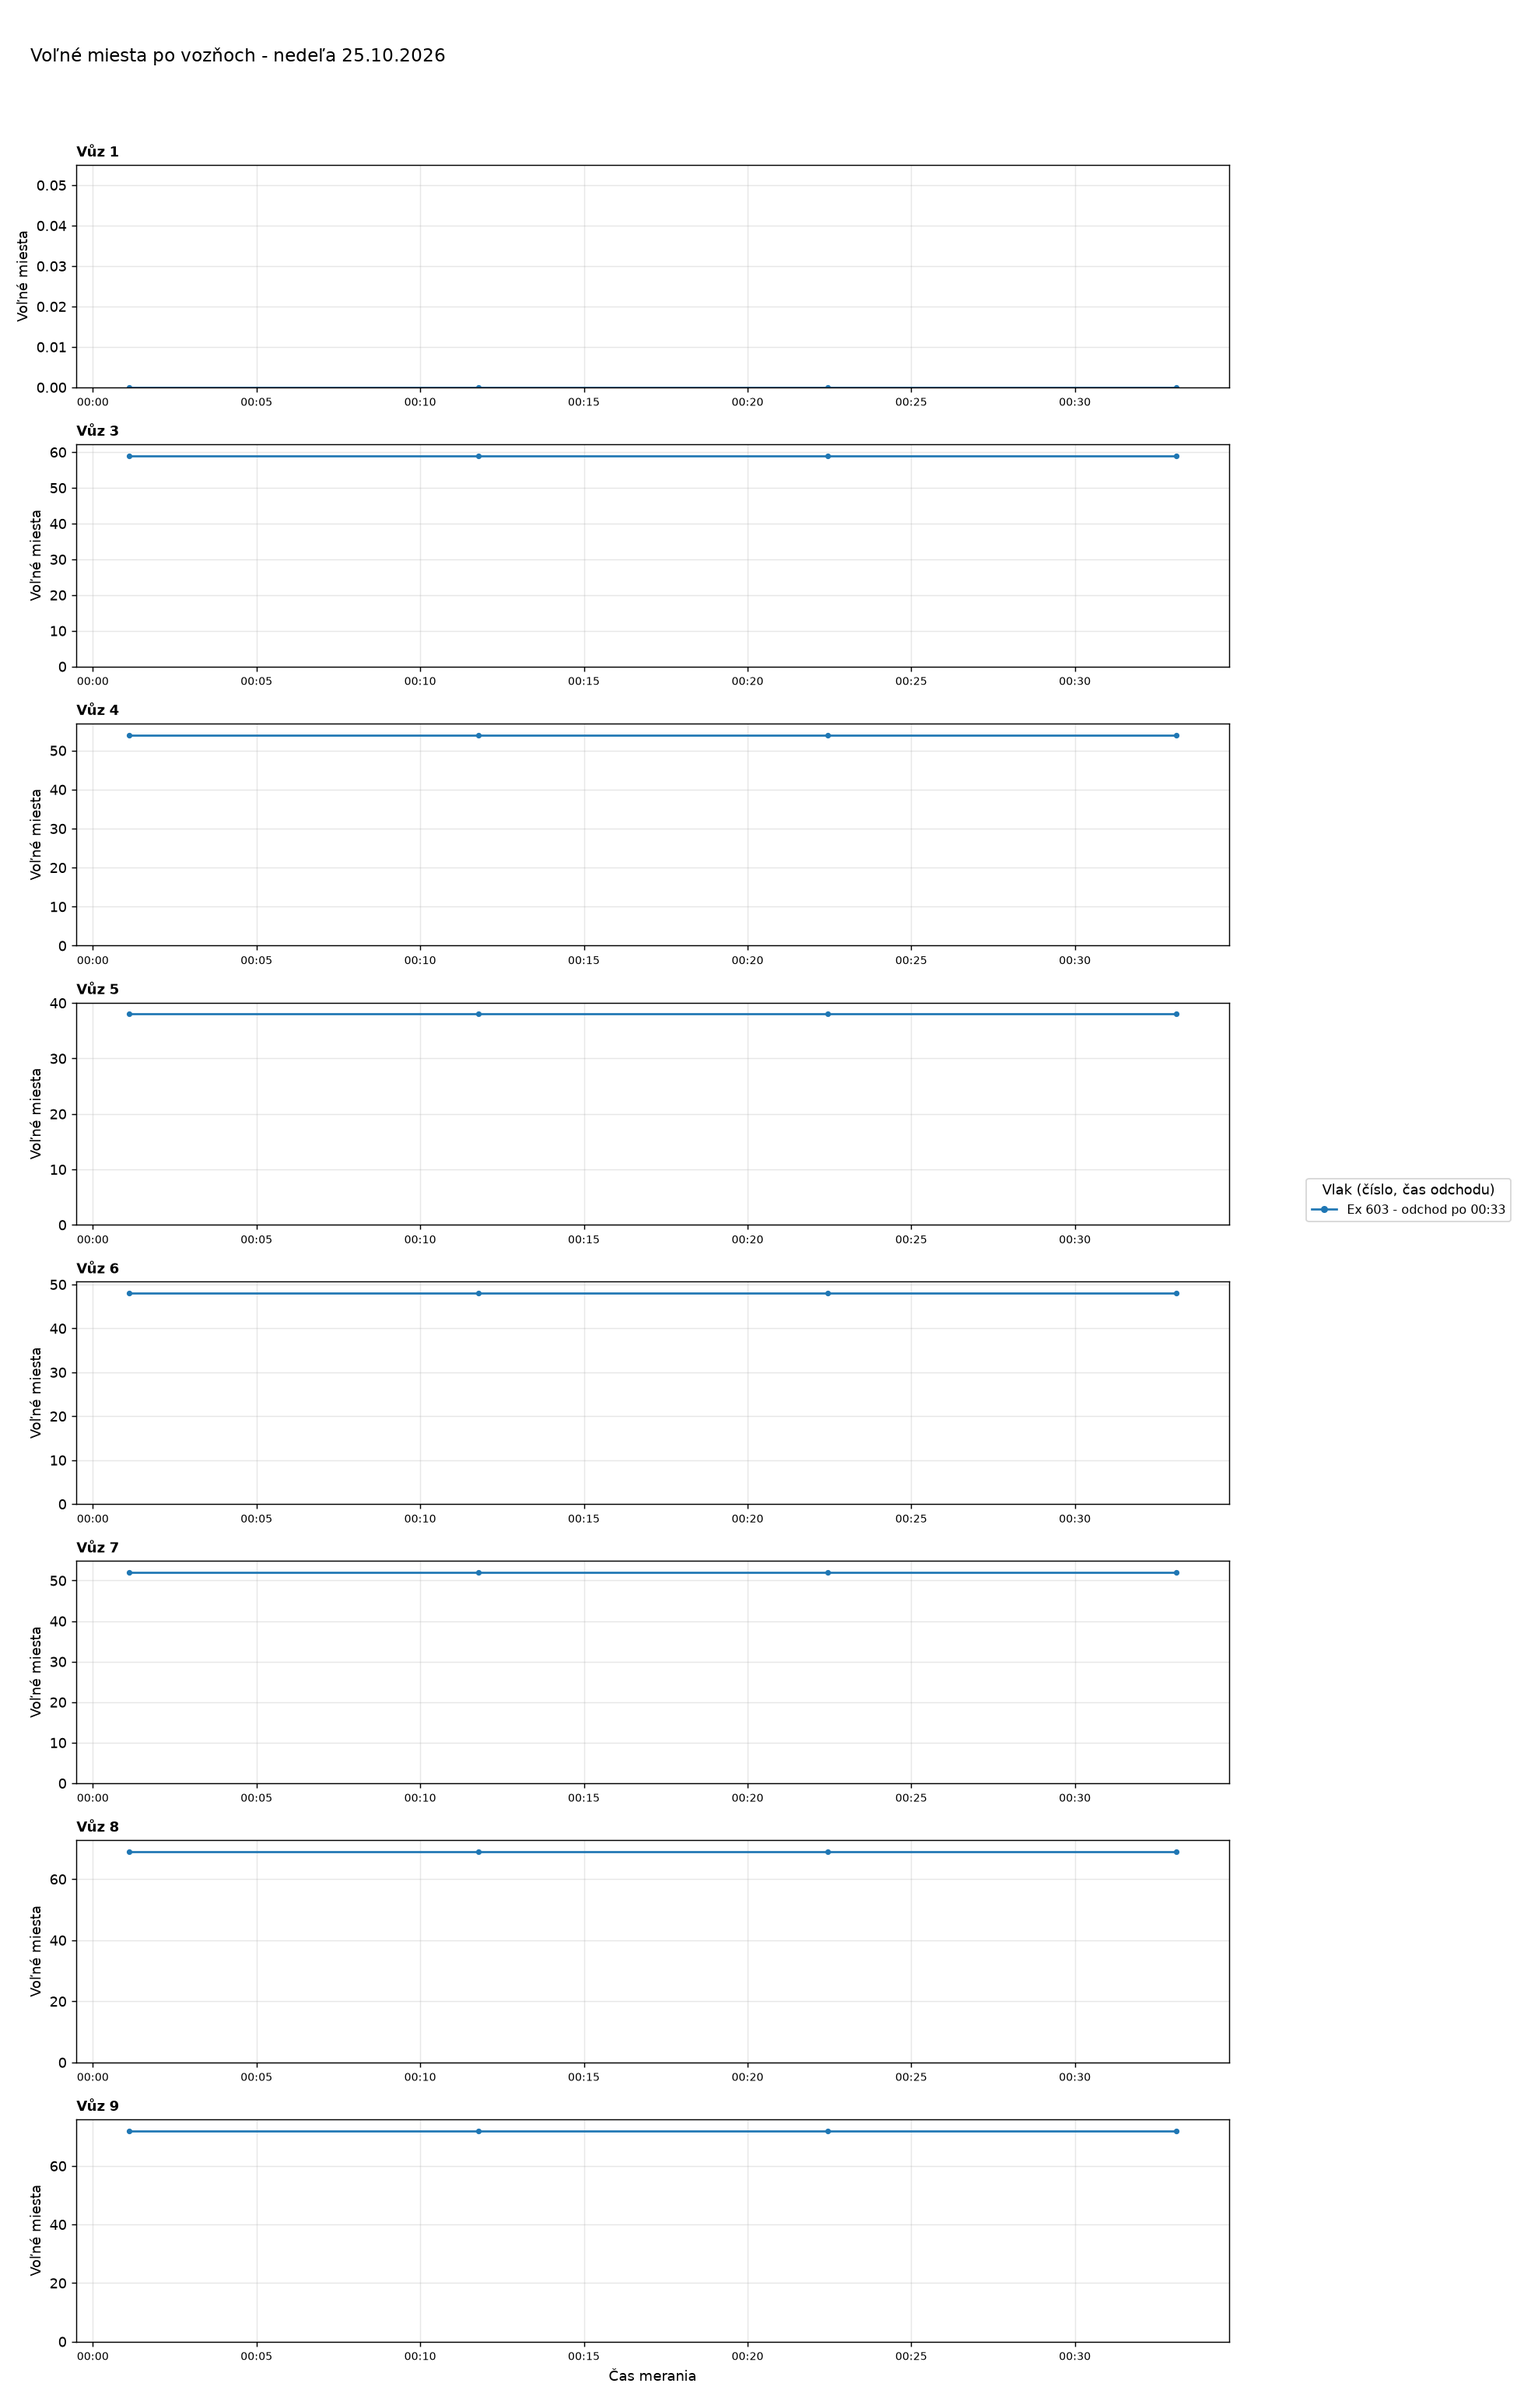
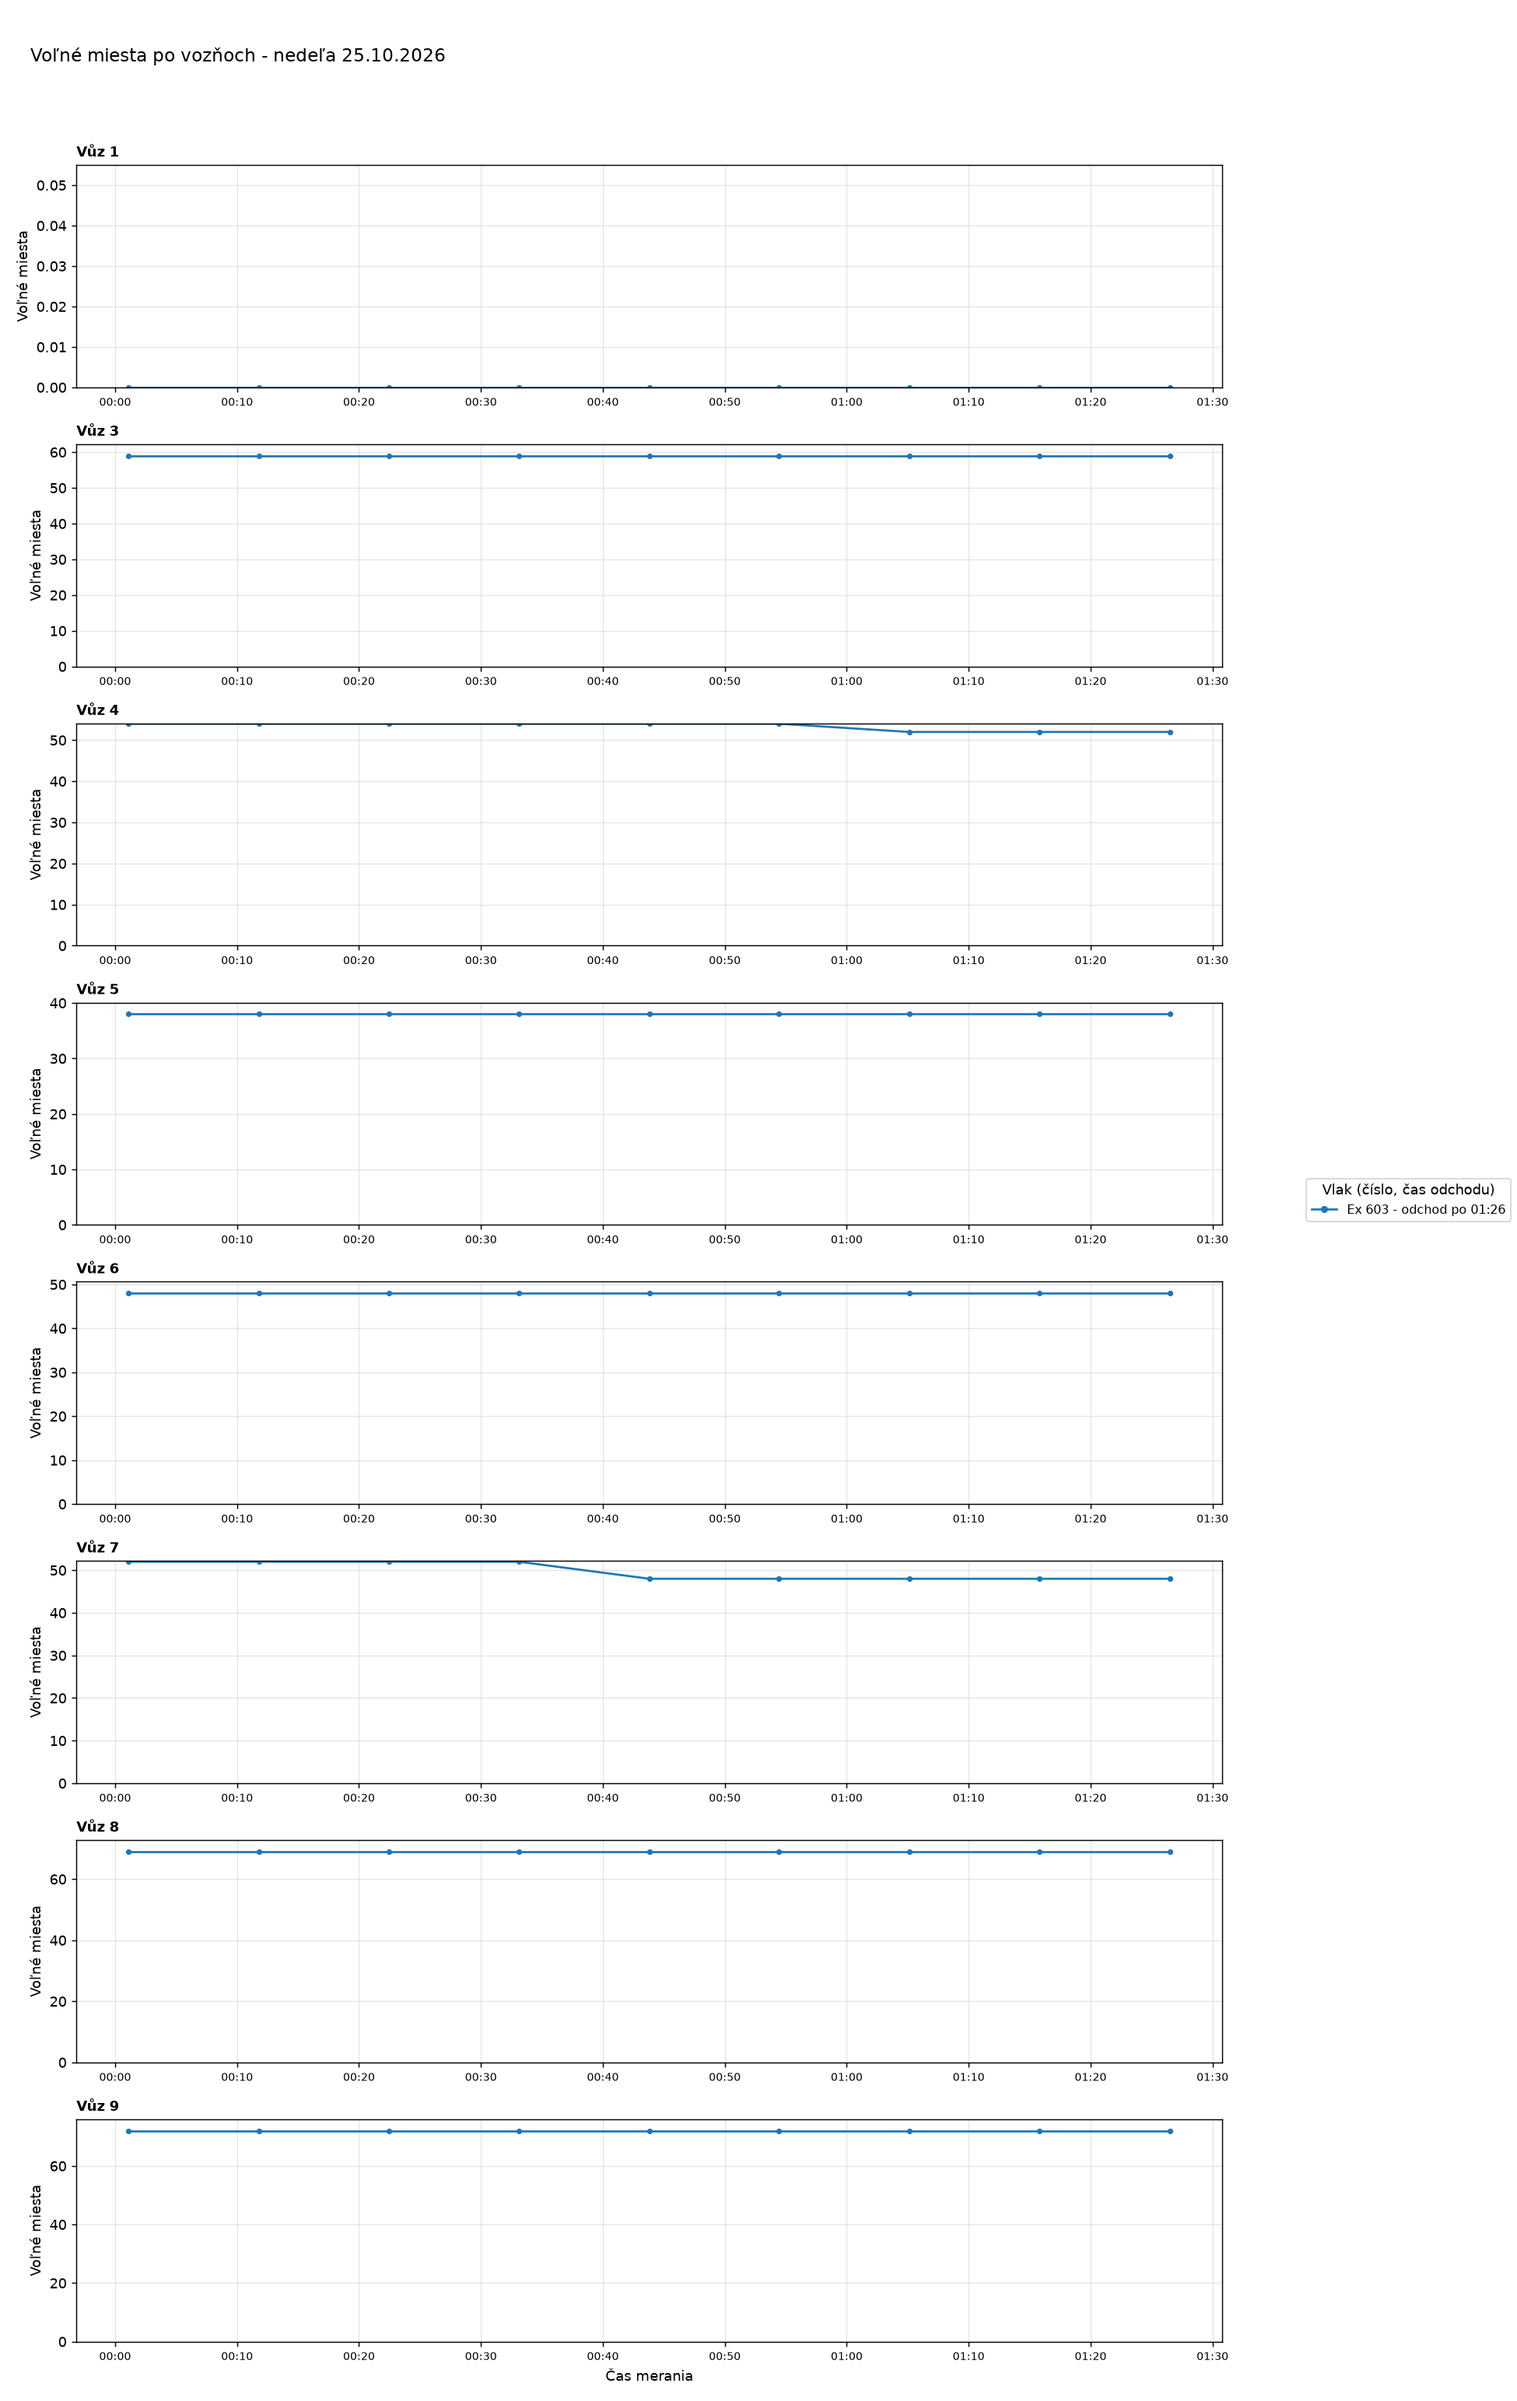
Aktualizácia grafov 2026-10-25 01:34

diff --git a/index.html b/index.html
@@ -35,7 +35,7 @@ h2.oddiel{margin:36px 0 0;font-size:1.4rem}
 <body>
 <main>
 <h1>Voľné miesta vo vlakoch</h1>
-<p class="muted">Posledné meranie: 25.10.2026 00:33 ·
+<p class="muted">Posledné meranie: 25.10.2026 01:26 ·
 <a href="data/obsadenost_data.csv">stiahnuť dáta (CSV)</a></p>
 <nav class="nav"><a href="#suhrn">Súhrn</a><a href="#statistiky">Štatistiky</a><a href="#historia">História grafov</a></nav>
 
@@ -44,7 +44,7 @@ h2.oddiel{margin:36px 0 0;font-size:1.4rem}
 <div class="tablewrap"><table>
 <thead><tr><th>Deň</th><th>Meraní</th><th>Vlakov</th><th>Čas meraní</th></tr></thead>
 <tbody>
-<tr><td><a href="#d2026-10-25">nedeľa 25.10.2026</a></td><td>4</td><td>1</td><td>00:01-00:33</td></tr>
+<tr><td><a href="#d2026-10-25">nedeľa 25.10.2026</a></td><td>9</td><td>1</td><td>00:01-01:26</td></tr>
 <tr><td><a href="#d2026-10-24">sobota 24.10.2026</a></td><td>98</td><td>14</td><td>00:10-23:50</td></tr>
 <tr><td><a href="#d2026-10-23">piatok 23.10.2026</a></td><td>64</td><td>13</td><td>07:25-23:49</td></tr>
 <tr><td><a href="#d2026-10-22">štvrtok 22.10.2026</a></td><td>80</td><td>11</td><td>00:08-16:10</td></tr>
